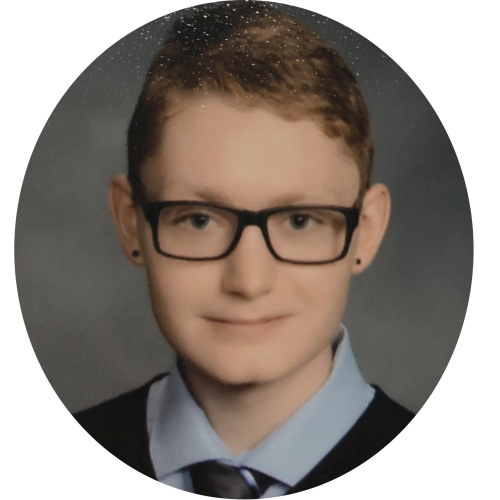
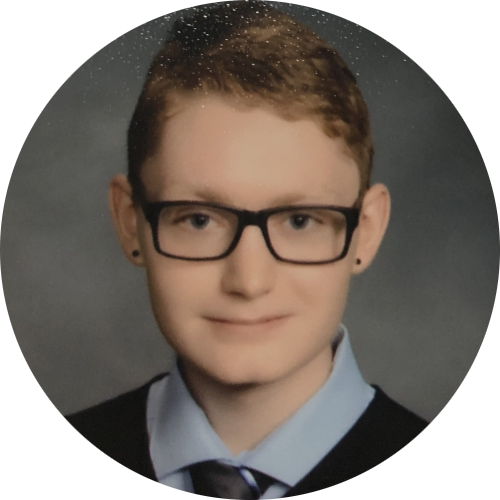
Implement links page Fix round portrait image Replace emails with direct mailto links

diff --git a/layouts/_default/linklist.html b/layouts/_default/linklist.html
@@ -1,0 +1,98 @@
+<!DOCTYPE html>
+<html>
+    <head>
+        <meta name=viewport content="width=device-width,initial-scale=1">
+        <title>D. Richline's Links</title>
+        <style>
+            * { box-sizing: border-box; }
+            html {
+            height: 100%;
+            }
+            body {
+            margin: auto;
+            max-width: 40ch;
+            font-size: 16pt;
+            font-family: sans-serif;
+            text-align: center;
+            }
+            .linklist-wrap {
+            margin-left: auto;
+            margin-right: auto;
+            padding:0 1rem;
+            text-align: center;
+            }
+            img
+            {
+            background-color: rgba(128, 128, 144, .5);
+            display:inline-block;
+            width: 10rem;
+            height: 10rem;
+            margin-top: 6.25rem;
+            margin-bottom: 1.5rem;
+            border-radius: 50%;
+            }
+            h1 {
+            font-size: 1.7rem;
+            margin-bottom: 1rem;
+            color:white;
+            }
+            h2 {        
+            font-size: 1rem;
+            color: white;
+            }
+            ul {
+            text-align: center;
+            width: 100%;
+            list-style: none inside;
+            padding: 0;
+            margin-left: auto; 
+            margin-right: auto;
+            margin-bottom: 50px;
+            }        
+            li {
+            width: 100%;
+            border: 2px white solid;
+            margin-bottom: 10px;
+            text-align: center;
+            }
+            li > a {
+            padding: 12px 15px;
+            display:block;
+            width:100%;
+            height:100%;
+            color: white;
+            font-weight:709;
+            white-space: pre-wrap;
+            word-wrap: break-word;
+            transition: all .25s cubic-bezier(.08,.59,.29,.99);
+            text-decoration:none;
+            }
+            li > a:hover {
+            border-color:white;
+            background-color:white;
+            color:black;
+            transition: all .25s cubic-bezier(.08,.59,.29,.99);
+            }
+            body { /* Permalink - use to edit and share this gradient: https://colorzilla.com/gradient-editor/#7d7e7d+0,0e0e0e+100;Black+3D */
+            background: #7d7e7d; /* Old browsers */
+            background: linear-gradient(to bottom,  #7d7e7d 0%,#0e0e0e 100%); /* W3C, IE10+, FF16+, Chrome26+, Opera12+, Safari7+ */
+            }
+            li > a:hover { color: #7d7e7d; background-color: white; }
+            "body {
+            background-repeat: no-repeat;
+            background-attachment: fixed; 
+            } 
+        </style>
+    </head>
+    <body>
+        <div class="linklist-wrap">
+        <img src='/about/roundportrait.png'>
+        <h1>D. Richline</h1>
+        <ul>
+        {{ range .Site.Menus.links }}
+            <li><a href="{{ .URL }}">{{ .Name }}</a></li>
+        {{ end }}
+        </ul>
+        <h2>&copy;2018-{{ now.Format "2006" }} {{ .Site.Title }}</h2>
+    </body>
+</html>

diff --git a/layouts/partials/footer.html b/layouts/partials/footer.html
@@ -1,4 +1,4 @@
 <footer>
-    <span>&copy;2018-{{ now.Format "2006" }} {{ .Site.Title }}	</span><a rel="license" href="http://creativecommons.org/licenses/by/4.0/"><img alt="Creative Commons License" style="border-width:0" src="/images/80x15.png" /></a>
+    <span>&copy;2018-{{ now.Format "2006" }} D. Richline	</span><a rel="license" href="http://creativecommons.org/licenses/by/4.0/"><img alt="Creative Commons License" style="border-width:0" src="/images/80x15.png" /></a>
     <br><span>Served with care.</span>
 </footer>

diff --git a/static/css/index.css b/static/css/index.css
@@ -272,15 +272,6 @@ main {
     margin: 0;
 }
 
-/* Email Obfuscation */
-.email::before {
-	content: "drichl";
-}
-
-.email::after {
-	content: "ine@pm.me";
-}
-
 footer {
     width: auto;
     min-height: 3rem;

diff --git a/content/contact/index.md b/content/contact/index.md
@@ -2,7 +2,7 @@
 title: "Get in Touch"
 ---
 
-* My email address is&nbsp;<span class="email"></span>&nbsp;(you'll have to type that in). 
+* My email address is [drichline@pm.me](mailto:drichline@pm.me)
 * I'm on Instagram as [@richline.rocks](https://www.instagram.com/richline.rocks/)
 * My resume is on [LinkedIn](https://www.linkedin.com/in/derekrichline/)
 * Here's my [PGP key](/files/pubkey.txt), in case you're also a [cryptography nerd](https://imgs.xkcd.com/comics/security.png)

diff --git a/content/links/index.md b/content/links/index.md
@@ -1,0 +1,3 @@
+---
+layout: "linklist"
+---
